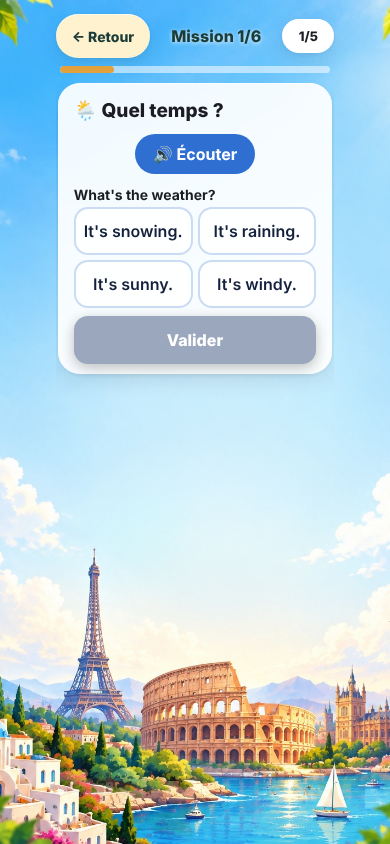
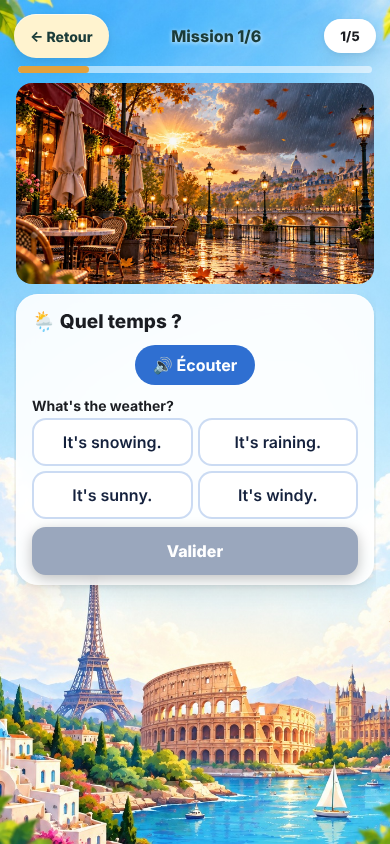
Vocabulaire : mots (5 par écran) puis écran d'exercices, guide + chemin, introduction raccourcie
Claude-Session: https://claude.ai/code/session_01WR42Ed1fryWNSHze1Zkirb

diff --git a/js/screens/lecon-a11.js b/js/screens/lecon-a11.js
@@ -6,19 +6,19 @@
 // personnage choisi dans Paramètres (settings.avatarGender / avatarIndex).
 
 import { store } from "../data/store.js?v=20260930a";
-import { UNLOCK_ALL_PREVIEW } from "../data/dev-config.js?v=20261016s";
+import { UNLOCK_ALL_PREVIEW } from "../data/dev-config.js?v=20261016w";
 import { AI_RELAY_URL } from "../data/ai-config.js?v=20260930a";
-import { createCity } from "./roots-city.js?v=20261016s";
-import { balanceAll } from "../data/balance.js?v=20261016s";
-import { MUST_A1 } from "../data/dialogues-a1-must.js?v=20261016s";
-import { REGISTERS_A1 } from "../data/dialogues-a1-registers.js?v=20261016s";
-import { plusPages } from "../data/vocab-plus-a1.js?v=20261016s";
-import { buildPractice, mountPractice } from "./practice.js?v=20261016s";
-import { createVoice } from "./voice.js?v=20261016s";
-import { SITUATIONS_A1 } from "../data/situations-a1.js?v=20261016s";
-import { DIALOGUES_A1 } from "../data/dialogues-a1.js?v=20261016s";
-import { DIALOGUES_A1_REST } from "../data/dialogues-a1-rest.js?v=20261016s";
-import { GRAMMAR_PAGES, READING_PAGES, LISTENING_PAGES, EXERCISE_PAGES, EXPRESSION_PAGES, TRANSV_DAYS, TEST_TEXTS, TEST_AUDIOS, TEST_GRAMMAR } from "../data/lecon-a11-data.js?v=20261016s";
+import { createCity } from "./roots-city.js?v=20261016w";
+import { balanceAll } from "../data/balance.js?v=20261016w";
+import { MUST_A1 } from "../data/dialogues-a1-must.js?v=20261016w";
+import { REGISTERS_A1 } from "../data/dialogues-a1-registers.js?v=20261016w";
+import { plusPages } from "../data/vocab-plus-a1.js?v=20261016w";
+import { buildPractice, mountPractice } from "./practice.js?v=20261016w";
+import { createVoice } from "./voice.js?v=20261016w";
+import { SITUATIONS_A1 } from "../data/situations-a1.js?v=20261016w";
+import { DIALOGUES_A1 } from "../data/dialogues-a1.js?v=20261016w";
+import { DIALOGUES_A1_REST } from "../data/dialogues-a1-rest.js?v=20261016w";
+import { GRAMMAR_PAGES, READING_PAGES, LISTENING_PAGES, EXERCISE_PAGES, EXPRESSION_PAGES, TRANSV_DAYS, TEST_TEXTS, TEST_AUDIOS, TEST_GRAMMAR } from "../data/lecon-a11-data.js?v=20261016w";
 
 let PROGRESS_KEY = "the_roots_a11_lesson_v1"; // fixé à chaque ouverture de leçon (renderLesson)
 const GIRLS = 9;
@@ -37,7 +37,7 @@ const GREETINGS = [
 // Pages 2 à 5 : mots d'identité du cahier des charges A1.1.
 // q = [question, choix, index de la bonne réponse]
 const IC_IMG = { vocab:1, grammar:1, reading:1, listening:1, speaking:1, exercises:1, transversal:1, test:1 };
-const icImg = (id, fb) => IC_IMG[id] ? `<img class="lc-ic-img" src="assets/img/lesson/ic-${id}.webp?v=20261016s" alt="" width="28" height="28" onerror="if(!this.dataset.r){this.dataset.r=1;this.src=this.src.split('?')[0]+'?r='+Date.now();}else{this.replaceWith(document.createTextNode('${fb}'));}"/>` : fb;
+const icImg = (id, fb) => IC_IMG[id] ? `<img class="lc-ic-img" src="assets/img/lesson/ic-${id}.webp?v=20261016w" alt="" width="28" height="28" onerror="if(!this.dataset.r){this.dataset.r=1;this.src=this.src.split('?')[0]+'?r='+Date.now();}else{this.replaceWith(document.createTextNode('${fb}'));}"/>` : fb;
 const SCENES = [["scene-greeting","Hello! Nice to meet you."],["scene-friends","Hi! How are you?"],["scene-goodbye","Goodbye! See you tomorrow!"]];
 
 const rxTest = (re, txt) => new RegExp(re, "i").test(String(txt || "").replace(/[’‘`´]/g, "'").replace(/\s+/g, " "));
@@ -322,15 +322,29 @@ export function renderLesson(root, B, { onExit } = {}) {
     }));
   }
 
+  // Étapes du vocabulaire : chaque page de mots = écran(s) de 5 mots max, puis UN écran d'exercices. Rien à faire défiler.
+  function vocabSteps() {
+    const S = [];
+    B.vocab.forEach((p, pi) => {
+      if (p.kind === "greetings") { S.push({ t: "greet", p, pi }); return; }
+      const ch = []; for (let i = 0; i < p.words.length; i += 5) ch.push(p.words.slice(i, i + 5));
+      ch.forEach((w, ci) => S.push({ t: "words", p, pi, words: w, ci, n: ch.length, last: ci === ch.length - 1 }));
+      S.push({ t: "prac", p, pi });
+    });
+    return S;
+  }
   function showVocab() {
     screen = "vocab";
-    const p = B.vocab[page];
-    const total = B.vocab.length;
+    const steps = B._steps || (B._steps = vocabSteps());
+    const st = steps[page];
+    const p = st.p;
+    const total = steps.length;
     const c = currentCharacter();
     const sub = (s) => s.replace(/\{name\}/g, c.name);
-    let body = "";
+    const lastStep = page === total - 1;
+    let body = "", btn = lastStep ? "Terminer ✓" : "Suivant →", hint = "", bubble = "Écoute et répète !", stationNow = 0;
 
-    if (p.kind === "greetings") {
+    if (st.t === "greet") {
       body = `
         <section class="lc-card">
           <h2 class="lc-h2">👥 ${esc(p.title)}</h2>
@@ -341,29 +355,16 @@ export function renderLesson(root, B, { onExit } = {}) {
               <span class="lc-w"><b>${esc(en)}</b><small>${esc(fr)}</small></span>${spk(en)}</li>`).join("")}</ul>
           </div>
           ${B.scenes ? `<h3 class="lc-h3">En situation</h3>
-          <div class="lc-scenes">${B.scenes.map(([f, t]) => `<figure><img src="assets/img/lesson/${f}.webp?v=20261016s" alt="" loading="lazy" onerror="this.closest('figure').remove()"/><figcaption>${esc(t)}</figcaption></figure>`).join("")}</div>` : ""}
+          <div class="lc-scenes">${B.scenes.map(([f, t]) => `<figure><img src="assets/img/lesson/${f}.webp?v=20261016w" alt="" loading="lazy" onerror="this.closest('figure').remove()"/><figcaption>${esc(t)}</figcaption></figure>`).join("")}</div>` : ""}
           <div class="lc-tip"><span>💡</span><div><b>Astuce</b><p>${esc(p.tip)}</p></div></div>
         </section>`;
-    } else {
-      body = `
-        <section class="lc-card">
-          <h2 class="lc-h2">${p.icon || ["", "🪪", "📍", "🎓"][page] || "📖"} ${esc(p.title)}</h2>
-          <ul class="lc-list">${p.words.map(([en, fr]) => `
-            <li>${ico(c.src, "lc-ava-sm")}<span class="lc-w"><b>${esc(en)}</b><small>${esc(fr)}</small></span>${spk(en)}</li>`).join("")}</ul>
-          ${p.scene ? `<div class="lc-scenes"><figure><img src="assets/img/lesson/${p.scene[0]}.webp?v=20261016s" alt="" loading="lazy" onerror="this.closest('figure').remove()"/><figcaption>${esc(p.scene[1])}</figcaption></figure></div>` : ""}
-          <div class="lc-tip"><span>💡</span><div><b>Astuce</b><p>${esc(p.tip)}</p></div></div>
+
+      if (!(p.kind === "greetings" && !B.greetings)) body += `
+        <section class="lc-card lc-ctx">
+          <h2 class="lc-h2 lc-h2-ctx">💬 Exemples en contexte</h2>
+          <ul class="lc-list">${p.examples.map(([en, fr]) => `
+            <li>${ico(c.src, "lc-ava-sm")}<span class="lc-w"><b>${esc(sub(en))}</b><small>${esc(sub(fr))}</small></span>${spk(sub(en))}</li>`).join("")}</ul>
         </section>`;
-    }
-
-    // Page d'ouverture sans liste propre : les phrases sont déjà au-dessus, on ne les répète pas.
-    if (!(p.kind === "greetings" && !B.greetings)) body += `
-      <section class="lc-card lc-ctx">
-        <h2 class="lc-h2 lc-h2-ctx">💬 Exemples en contexte</h2>
-        <ul class="lc-list">${p.examples.map(([en, fr]) => `
-          <li>${ico(c.src, "lc-ava-sm")}<span class="lc-w"><b>${esc(sub(en))}</b><small>${esc(sub(fr))}</small></span>${spk(sub(en))}</li>`).join("")}</ul>
-      </section>`;
-
-    if (p.kind === "greetings") {
       body += `
         <section class="lc-card lc-prac">
           <h2 class="lc-h2 lc-h2-prac">✏ À toi de pratiquer !</h2>
@@ -371,29 +372,47 @@ export function renderLesson(root, B, { onExit } = {}) {
           <div class="lc-player"><button type="button" class="lc-play" data-say="${esc(sub(p.say))}" aria-label="Écouter la phrase">▶</button>
             <span class="lc-wave" aria-hidden="true"></span><span class="lc-speed">1x</span></div>
         </section>`;
+    } else if (st.t === "words") {
+      stationNow = 0;
+      btn = st.last ? "Exercices ✏" : "Mots suivants →";
+      if (st.last) hint = `<p class="lc-nexthint">👉 Page suivante : les exercices</p>`;
+      body = `
+        <section class="lc-card">
+          <h2 class="lc-h2">${p.icon || "📖"} ${esc(p.title)}${st.n > 1 ? ` <span class="lc-part">${st.ci + 1}/${st.n}</span>` : ""}</h2>
+          ${p.scene && st.ci === 0 ? `<div class="lc-scenes lc-scene-sm"><figure><img src="assets/img/lesson/${p.scene[0]}.webp?v=20261016w" alt="" loading="lazy" onerror="this.closest('figure').remove()"/></figure></div>` : ""}
+          <ul class="lc-list lc-vl">${st.words.map(([en, fr]) => `
+            <li><span class="lc-w"><b>${esc(en)}</b><small>${esc(fr)}</small></span>${spk(en)}</li>`).join("")}</ul>
+          ${st.last ? `<h3 class="lc-h3 lc-h3s">💬 En contexte</h3>
+          <ul class="lc-list lc-ex">${p.examples.map(([en, fr]) => `
+            <li><span class="lc-w"><b>${esc(sub(en))}</b><small>${esc(sub(fr))}</small></span>${spk(sub(en))}</li>`).join("")}</ul>
+          <details class="lc-tipd"><summary>💡 Astuce</summary><p>${esc(p.tip)}</p></details>` : ""}
+        </section>`;
     } else {
-      body += `
+      stationNow = 1; bubble = "À toi de jouer !";
+      btn = lastStep ? "Terminer ✓" : "Page suivante →";
+      body = `
         <section class="lc-card lc-prac">
-          <h2 class="lc-h2 lc-h2-prac">✏ À toi de pratiquer !</h2>
           <div id="lcPrac" class="pr-host"></div>
         </section>`;
     }
 
-    const last = page === total - 1;
-    const needsAnswer = p.kind !== "greetings" && !answered[page];
+    const needsAnswer = st.t === "prac" && !answered[page];
     const foot = `
       <footer class="lc-foot">
-        <button type="button" class="lc-sec-btn" id="lcPrev" ${page === 0 ? "" : ""}>← Précédent</button>
-        <button type="button" class="lc-cta lc-next" id="lcNext" ${needsAnswer ? "disabled" : ""}>${last ? "Terminer ✓" : "Suivant →"}</button>
+        <button type="button" class="lc-sec-btn" id="lcPrev">← Précédent</button>
+        <button type="button" class="lc-cta lc-next" id="lcNext" ${needsAnswer ? "disabled" : ""}>${btn}</button>
       </footer>`;
+    const guide = st.t === "greet" ? `<div class="lc-vocab-head"><span class="lc-vh-ic">📖</span><div><h1>Vocabulaire</h1><p>Écoute et répète les mots.</p></div></div>`
+      : `<div class="lc-guide">${ico(c.src, "lc-ava-md")}<div class="lc-gbub">${bubble}</div>
+         <div class="lc-path" aria-hidden="true"><i class="${stationNow > 0 ? "d" : "c"}"></i><u></u><i class="${stationNow > 0 ? "c" : ""}"></i></div></div>`;
 
-    frame(HEAD, { cur: page + 1, total }, `<div class="lc-vocab-head"><span class="lc-vh-ic">📖</span><div><h1>Vocabulaire</h1><p>Écoute et répète les mots.</p></div></div>${body}`, foot);
+    frame(HEAD, { cur: page + 1, total }, `${guide}${body}${hint}`, foot);
     el.querySelector(".lc-main").scrollTop = 0;
 
     el.querySelector("#lcBack").onclick = showMenu;
     el.querySelector("#lcPrev").onclick = () => { if (page === 0) showMenu(); else { page--; showVocab(); } };
     el.querySelector("#lcNext").onclick = () => {
-      if (!last) { page++; showVocab(); return; }
+      if (!lastStep) { page++; showVocab(); return; }
       prog.done = Object.assign({}, prog.done, { vocab: true });
       saveProgress(prog);
       showMenu();

diff --git a/js/data/lecons-a1.js b/js/data/lecons-a1.js
@@ -2,6 +2,9 @@
 // et les met au format attendu par renderLesson() (js/screens/lecon-a11.js).
 import { A1_EN_PALIERS } from "./programme-a1-en.js?v=20260930a";
 
+// Objectifs courts pour l'écran d'accueil : une ligne chacun (le détail reste dans les pages de grammaire).
+const cut = (t, n = 64) => { let x = String(t).split(/ [—–-] | \(|\.\s/)[0].replace(/^Grammaire : /, ""); x = x.split(" : ")[0]; if (x.length > n) { x = x.slice(0, n); x = x.slice(0, x.lastIndexOf(" ")) + "…"; } return x; };
+export const shortGoals = (base) => [cut(base.objective.split(", ")[0], 70), ...base.grammar.slice(0, 2).map((g) => "Grammaire : " + cut(g, 40))];
 export const A1_TITLES_FR = ["Mon identité", "Ma famille", "Mes amis", "Transports et directions", "Mes goûts", "Manger et boire", "Faire les achats", "Se repérer en ville", "Voyager", "Travail et études", "Le temps et la météo", "Parler avec les autres"];
 const KEYS = (n) => (n === 1 ? "the_roots_a11_lesson_v1" : `the_roots_a1${n}_lesson_v1`);
 
@@ -22,11 +25,11 @@ export function nextLessonN(unlockAll) {
   return 12;
 }
 
-const V = "20261016s";
-import { plusPages } from "./vocab-plus-a1.js?v=20261016s";
+const V = "20261016w";
+import { plusPages } from "./vocab-plus-a1.js?v=20261016w";
 const coreSet = (pages) => new Set(pages.flatMap((p) => (p.words || []).map((w) => String(w[0]).toLowerCase())));
 export async function loadBundle(n) {
-  if (n === 1) { const m = await import("../screens/lecon-a11.js?v=20261016s"); return m.BUNDLE_A11; }
+  if (n === 1) { const m = await import("../screens/lecon-a11.js?v=20261016w"); return m.BUNDLE_A11; }
   const s = `A1${n}`, base = A1_EN_PALIERS[n - 1];
   const m = await import(`./lecon-a1${n}-data.js?v=${V}`);
   const city = n === 2 ? await import(`./roots-city-a12-data.js?v=${V}`) : m;
@@ -34,7 +37,7 @@ export async function loadBundle(n) {
   const w = exprs[0], o = exprs[1] || exprs[0];
   return {
     code: base.code, head: `${base.code} – ${A1_TITLES_FR[n - 1]}`, titleFr: A1_TITLES_FR[n - 1], progressKey: KEYS(n),
-    goals: [base.objective, ...base.grammar.slice(0, 3).map((g) => `Grammaire : ${g}`)],
+    goals: shortGoals(base),
     vocab, grammar: m[`GRAMMAR_${s}`], grammarSub: "Les règles de la leçon, avec des exemples.",
     reading: m[`READING_${s}`], listening: m[`LISTENING_${s}`], exercises: m[`EXERCISES_${s}`], expression: exprs, transv: null,
     testTexts: m[`TEST_TEXTS_${s}`], testAudios: m[`TEST_AUDIOS_${s}`], testGrammar: m[`TEST_GRAMMAR_${s}`], testW: 0, testO: exprs[1] ? 1 : 0,

diff --git a/js/screens/mes-cours.js b/js/screens/mes-cours.js
@@ -9,11 +9,11 @@
 // rassemble ces résultats pour toutes les langues, façon livret scolaire.
 
 import { store } from "../data/store.js?v=20260930a";
-import { renderLesson } from "./lecon-a11.js?v=20261016s";
-import { A1_LIST, lessonStatus, isUnlocked, nextLessonN, loadBundle, loadExamBundle, examStatus, examUnlocked } from "../data/lecons-a1.js?v=20261016s";
-import { renderShell } from "./shell.js?v=20261016s";
+import { renderLesson } from "./lecon-a11.js?v=20261016w";
+import { A1_LIST, lessonStatus, isUnlocked, nextLessonN, loadBundle, loadExamBundle, examStatus, examUnlocked } from "../data/lecons-a1.js?v=20261016w";
+import { renderShell } from "./shell.js?v=20261016w";
 import { CREATOR_MODE, UNLOCK_COURSES_PREVIEW } from "../data/dev-config.js?v=20260930a";
-import { UNLOCK_ALL_PREVIEW } from "../data/dev-config.js?v=20261016s";
+import { UNLOCK_ALL_PREVIEW } from "../data/dev-config.js?v=20261016w";
 import { renderLevelTest } from "./level-test.js?v=20260930a";
 import { t, formatDate } from "../data/i18n.js?v=20260930a";
 import { A1_EN_GENERAL_OBJECTIVE, A1_EN_PALIERS, A1_EN_ENTRY_MODULE } from "../data/programme-a1-en.js?v=20260930a";
@@ -23,8 +23,8 @@ import { B2_EN_GENERAL_OBJECTIVE, B2_EN_PALIERS, B2_EN_ENTRY_MODULE } from "../d
 import { C1_EN_GENERAL_OBJECTIVE, C1_EN_PALIERS, C1_EN_ENTRY_MODULE } from "../data/programme-c1-en.js?v=20260930a";
 import { A1_ES_GENERAL_OBJECTIVE, A1_ES_PALIERS } from "../data/programme-a1-es.js?v=20260930a";
 import { A2_ES_GENERAL_OBJECTIVE, A2_ES_PALIERS } from "../data/programme-a2-es.js?v=20261007a";
-import { langGrowth, skillGauges, profileSummary, controls, boosts, missions, lessonTitle } from "../data/progress.js?v=20261016s";
-import { plantSvg } from "./plant.js?v=20261016s";
+import { langGrowth, skillGauges, profileSummary, controls, boosts, missions, lessonTitle } from "../data/progress.js?v=20261016w";
+import { plantSvg } from "./plant.js?v=20261016w";
 import { BLOCAGES_ES, BLOCAGES_ES_TITLE, blocageHref, blocagesDone } from "../data/atelier-es-blocages.js?v=20260930a";
 import { renderAtelierEs } from "./atelier-es.js?v=20261008a";
 import { renderAtelierEn } from "./atelier-en.js?v=20261008a";

diff --git a/css/lecon-a11.css b/css/lecon-a11.css
@@ -310,3 +310,26 @@ body:has(.lc-screen) #preview-reset-wrap{ display:none !important; }
 .pr-scene img{ position:absolute; inset:0; width:100%; height:100%; object-fit:cover; }
 .pr-card{ background:var(--surface-soft); border:0; }
 .pr-go{ box-shadow:0 4px 0 color-mix(in srgb, var(--accent) 60%, #000); }
+
+/* ===== Vocabulaire : un écran de mots (5 max), puis un écran d'exercices ===== */
+.lc-guide{ display:flex; align-items:center; gap:10px; margin:0 0 10px; }
+.lc-ava-md{ width:46px; height:46px; border-radius:50%; border:2px solid #fff; flex:none; background:#fff; object-fit:cover; }
+.lc-gbub{ background:#fff; border-radius:16px 16px 16px 4px; padding:8px 12px; font-weight:600; font-size:15px; color:var(--ink); box-shadow:0 2px 8px rgba(0,0,0,.08); flex:1; }
+.lc-path{ display:flex; align-items:center; gap:3px; width:64px; flex:none; }
+.lc-path i{ width:16px; height:16px; border-radius:50%; background:#fff; border:2px solid var(--accent); flex:none; }
+.lc-path i.d{ background:var(--accent); } .lc-path i.c{ box-shadow:0 0 0 4px color-mix(in srgb, var(--accent) 30%, transparent); }
+.lc-path u{ flex:1; height:2px; background:#fff; }
+.lc-part{ font-size:12px; font-weight:600; color:var(--ink-soft); margin-left:6px; }
+.lc-nexthint{ text-align:center; margin:10px 0 0; font-size:14px; font-weight:600; color:var(--ink); background:rgba(255,255,255,.85); border-radius:14px; padding:8px; }
+.lc-tipd{ margin-top:10px; background:color-mix(in srgb, var(--accent) 12%, var(--surface)); border-radius:12px; padding:8px 12px; }
+.lc-tipd summary{ cursor:pointer; font-weight:700; font-size:14px; }
+.lc-tipd p{ margin:6px 0 0; font-size:14px; }
+.lc-scene-sm img{ max-height:110px; width:100%; object-fit:cover; border-radius:14px; }
+.lc-scene-sm figure{ margin:0 0 8px; }
+.lc-ex li{ padding:6px 0; }
+
+.lc-vl li{ padding-top:6px; padding-bottom:6px; min-height:0; }
+.lc-ex .lc-w b{ font-size:14px; } .lc-ex .lc-w small{ font-size:12px; } .lc-ex li{ padding:4px 0; }
+.lc-h3s{ margin:10px 0 2px; font-size:14px; }
+.lc-nexthint{ margin-top:8px; padding:6px; }
+.lc-vl .lc-spk{ width:40px; height:40px; min-width:40px; font-size:16px; }

diff --git a/js/data/lecons-a2.js b/js/data/lecons-a2.js
@@ -3,6 +3,9 @@
 // Leçons construites : A2.1 (voir A2_BUILT). Les autres paliers viendront un par un.
 import { A2_EN_PALIERS } from "./programme-a2-en.js";
 
+// Objectifs courts pour l'écran d'accueil : une ligne chacun (le détail reste dans les pages de grammaire).
+const cut = (t, n = 64) => { let x = String(t).split(/ [—–-] | \(|\.\s/)[0].replace(/^Grammaire : /, ""); x = x.split(" : ")[0]; if (x.length > n) { x = x.slice(0, n); x = x.slice(0, x.lastIndexOf(" ")) + "…"; } return x; };
+export const shortGoals = (base) => [cut(base.objective.split(", ")[0], 70), ...base.grammar.slice(0, 2).map((g) => "Grammaire : " + cut(g, 40))];
 export const A2_TITLES_FR = ["Ma routine au quotidien", "Le passé et « used to »", "Pendant que…", "Mes projets", "Comparer", "Santé et bien-être", "Météo et environnement", "Logement et quartier", "Au téléphone", "Sorties et invitations", "Opinions et sentiments", "Imprévus en voyage"];
 export const A2_BUILT = [1];
 const KEYS = (n) => `the_roots_a2${n}_lesson_v1`;
@@ -16,7 +19,7 @@ export function lessonStatusA2(n) {
   } catch (e) { return { started: false, passed: false, score: null }; }
 }
 
-const V = "20261016s";
+const V = "20261016w";
 export async function loadBundleA2(n) {
   if (!A2_BUILT.includes(n)) throw new Error("A2." + n + " pas encore construit");
   const s = `A2${n}`, base = A2_EN_PALIERS[n - 1];
@@ -25,7 +28,7 @@ export async function loadBundleA2(n) {
   const w = exprs[0], o = exprs[1] || exprs[0];
   return {
     code: base.code, head: `${base.code} – ${A2_TITLES_FR[n - 1]}`, titleFr: A2_TITLES_FR[n - 1], progressKey: KEYS(n),
-    goals: [base.objective, ...base.grammar.slice(0, 3).map((g) => `Grammaire : ${g}`)],
+    goals: shortGoals(base),
     vocab, grammar: m[`GRAMMAR_${s}`], grammarSub: "Les règles de la leçon, avec des exemples.",
     reading: m[`READING_${s}`], listening: m[`LISTENING_${s}`], exercises: m[`EXERCISES_${s}`], expression: exprs, transv: null,
     testTexts: m[`TEST_TEXTS_${s}`], testAudios: m[`TEST_AUDIOS_${s}`], testGrammar: m[`TEST_GRAMMAR_${s}`], testW: 0, testO: exprs[1] ? 1 : 0,

diff --git a/js/screens/practice.js b/js/screens/practice.js
@@ -1,6 +1,6 @@
 // The Roots — pratique du vocabulaire : 5 séries par page de mots (associer, compléter, remettre en ordre, produire, mini-défi).
 // Tout est généré à partir des mots et des exemples de la page ; l'élève tape, touche et dit — il ne se contente pas de choisir.
-import { createVoice } from "./voice.js?v=20261016s";
+import { createVoice } from "./voice.js?v=20261016w";
 
 const esc = (s) => String(s).replace(/[&<>"']/g, (c) => ({ "&": "&amp;", "<": "&lt;", ">": "&gt;", '"': "&quot;", "'": "&#39;" }[c]));
 const norm = (t) => String(t || "").toLowerCase().replace(/[’‘`´]/g, "'").replace(/[.,!?;:"“”]/g, "").replace(/\s+/g, " ").trim();
@@ -50,7 +50,7 @@ export function mountPractice(host, stages, { speak, onDone, startAt = 0, scene 
   const missed = new Set();
   let si = startAt, score = 0, total = 0;
 
-  const sceneBox = (st) => st.type === "challenge" ? "" : `<div class="pr-scene"><span>${esc(icon)}</span>${scene ? `<img src="assets/img/lesson/${esc(scene)}.webp?v=20261016s" alt="" loading="lazy" onerror="this.remove()"/>` : ""}</div>`;
+  const sceneBox = (st) => st.type === "challenge" ? "" : `<div class="pr-scene"><span>${esc(icon)}</span>${scene ? `<img src="assets/img/lesson/${esc(scene)}.webp?v=20261016w" alt="" loading="lazy" onerror="this.remove()"/>` : ""}</div>`;
   const shell = (st, inner, cnt = "") => {
     host.innerHTML = `<div class="pr-top"><span>Pratique ${si + 1}/${stages.length}</span><span>${esc(cnt)}</span></div>
       <div class="pr-bar"><i style="width:${Math.round(((si + 0.5) / stages.length) * 100)}%"></i></div>

diff --git a/apercu-a1.html b/apercu-a1.html
@@ -7,7 +7,7 @@
   <link rel="stylesheet" href="css/base.css?v=20260930a"/>
   <link rel="stylesheet" href="css/backgrounds.css?v=20260930a"/>
   <link rel="stylesheet" href="css/screens.css?v=20261001c"/>
-  <link rel="stylesheet" href="css/lecon-a11.css?v=20261016s"/>
+  <link rel="stylesheet" href="css/lecon-a11.css?v=20261016w"/>
 </head>
 <body>
   <div id="app"></div>
@@ -23,8 +23,8 @@
     document.documentElement.setAttribute("data-theme", store.get().settings.theme || "light");
     const isExam = q.get("n") === "exam";
     const n = Math.max(1, Math.min(12, Number(q.get("n")) || 1));
-    const { renderLesson } = await import("./js/screens/lecon-a11.js?v=20261016s");
-    const { loadBundle, loadExamBundle } = await import("./js/data/lecons-a1.js?v=20261016s");
+    const { renderLesson } = await import("./js/screens/lecon-a11.js?v=20261016w");
+    const { loadBundle, loadExamBundle } = await import("./js/data/lecons-a1.js?v=20261016w");
     renderLesson(document.getElementById("app"), await (isExam ? loadExamBundle() : loadBundle(n)), { onExit: () => location.reload() });
   </script>
 </body>

diff --git a/apercu-a2.html b/apercu-a2.html
@@ -7,7 +7,7 @@
   <link rel="stylesheet" href="css/base.css?v=20260930a"/>
   <link rel="stylesheet" href="css/backgrounds.css?v=20260930a"/>
   <link rel="stylesheet" href="css/screens.css?v=20261001c"/>
-  <link rel="stylesheet" href="css/lecon-a11.css?v=20261016s"/>
+  <link rel="stylesheet" href="css/lecon-a11.css?v=20261016w"/>
 </head>
 <body>
   <div id="app"></div>
@@ -23,8 +23,8 @@
     document.documentElement.setAttribute("data-theme", store.get().settings.theme || "light");
     const isExam = q.get("n") === "exam";
     const n = Math.max(1, Math.min(12, Number(q.get("n")) || 1));
-    const { renderLesson } = await import("./js/screens/lecon-a11.js?v=20261016s");
-    const { loadBundleA2: loadBundle } = await import("./js/data/lecons-a2.js?v=20261016s");
+    const { renderLesson } = await import("./js/screens/lecon-a11.js?v=20261016w");
+    const { loadBundleA2: loadBundle } = await import("./js/data/lecons-a2.js?v=20261016w");
     renderLesson(document.getElementById("app"), await loadBundle(n), { onExit: () => location.reload() });
   </script>
 </body>

diff --git a/apercu-a11.html b/apercu-a11.html
@@ -9,7 +9,7 @@
   <link rel="stylesheet" href="css/base.css?v=20260930a"/>
   <link rel="stylesheet" href="css/backgrounds.css?v=20260930a"/>
   <link rel="stylesheet" href="css/screens.css?v=20261001c"/>
-  <link rel="stylesheet" href="css/lecon-a11.css?v=20261016s"/>
+  <link rel="stylesheet" href="css/lecon-a11.css?v=20261016w"/>
 </head>
 <body>
   <div id="app"></div>
@@ -24,7 +24,7 @@
     if (q.get("t") === "light" || q.get("t") === "dark") patch.theme = q.get("t");
     if (Object.keys(patch).length) store.updateSettings(patch);
     document.documentElement.setAttribute("data-theme", store.get().settings.theme || "light");
-    const { renderLessonA11 } = await import("./js/screens/lecon-a11.js?v=20261016s");
+    const { renderLessonA11 } = await import("./js/screens/lecon-a11.js?v=20261016w");
     renderLessonA11(document.getElementById("app"), { onExit: () => location.reload() });
   </script>
 </body>

diff --git a/js/app.js b/js/app.js
@@ -7,7 +7,7 @@ import { renderSplash } from "./screens/splash.js?v=20260930a";
 import { renderAuthMenu } from "./screens/auth-menu.js?v=20260930a";
 import { renderLogin } from "./screens/login.js?v=20260930a";
 import { renderForgotPassword } from "./screens/forgot-password.js?v=20260930a";
-import { renderShell } from "./screens/shell.js?v=20261016s";
+import { renderShell } from "./screens/shell.js?v=20261016w";
 import { renderFaceIdLock } from "./screens/faceid-lock.js?v=20260930a";
 import { renderChooseLanguage } from "./screens/choose-language.js?v=20260930a";
 import { renderOnboarding, hasSeenOnboarding } from "./screens/onboarding.js?v=20260930a";

diff --git a/js/screens/mes-arbres.js b/js/screens/mes-arbres.js
@@ -5,8 +5,8 @@
 
 import { store } from "../data/store.js?v=20260930a";
 import { t } from "../data/i18n.js?v=20260930a";
-import { langGrowth } from "../data/progress.js?v=20261016s";
-import { plantSvg } from "./plant.js?v=20261016s";
+import { langGrowth } from "../data/progress.js?v=20261016w";
+import { plantSvg } from "./plant.js?v=20261016w";
 
 const GROUP_FLAGS = { en: "🇬🇧", es: "🇪🇸", pt: "🇵🇹" };
 const VARIANT_FLAGS = { "en-gb": "🇬🇧", "en-us": "🇺🇸", "es-co": "🇨🇴", "es-es": "🇪🇸", "pt-br": "🇧🇷", "pt-pt": "🇵🇹" };

diff --git a/index.html b/index.html
@@ -31,7 +31,7 @@
   <link rel="stylesheet" href="css/base.css?v=20260930a"/>
   <link rel="stylesheet" href="css/backgrounds.css?v=20260930a"/>
   <link rel="stylesheet" href="css/screens.css?v=20261001c"/>
-  <link rel="stylesheet" href="css/lecon-a11.css?v=20261016s"/>
+  <link rel="stylesheet" href="css/lecon-a11.css?v=20261016w"/>
 </head>
 <body>
   <div id="app"></div>
@@ -113,6 +113,6 @@
     });
   })();
   </script>
-  <script type="module" src="js/app.js?v=20261016s"></script>
+  <script type="module" src="js/app.js?v=20261016w"></script>
 </body>
 </html>
